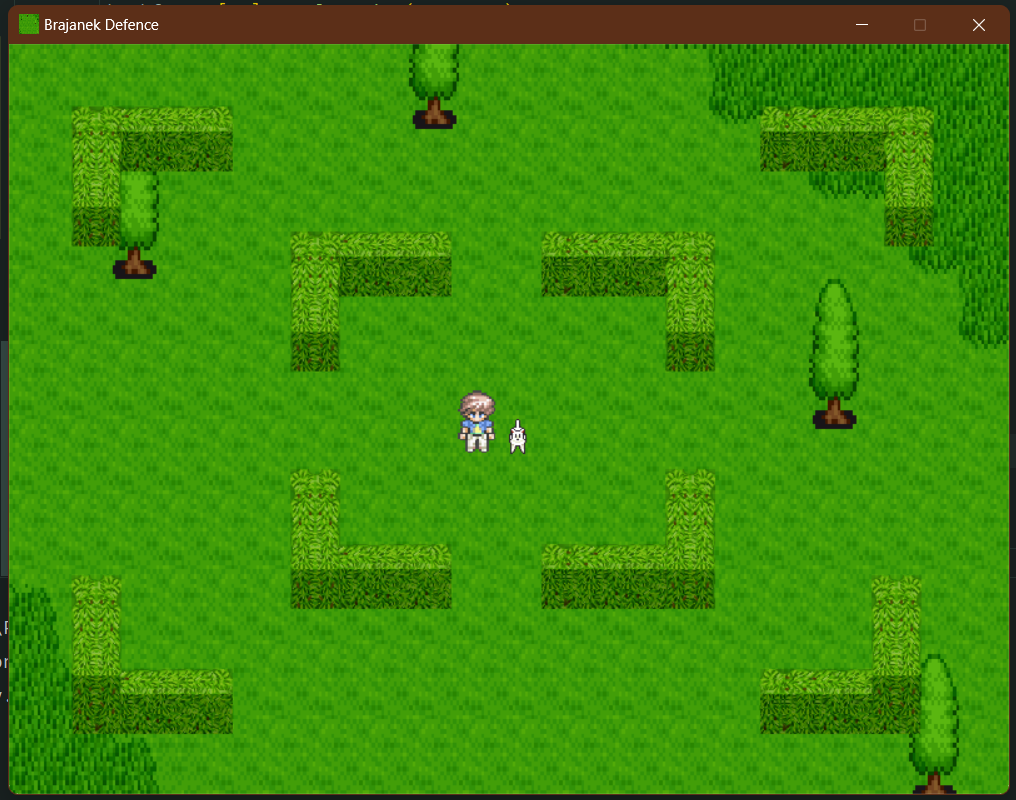
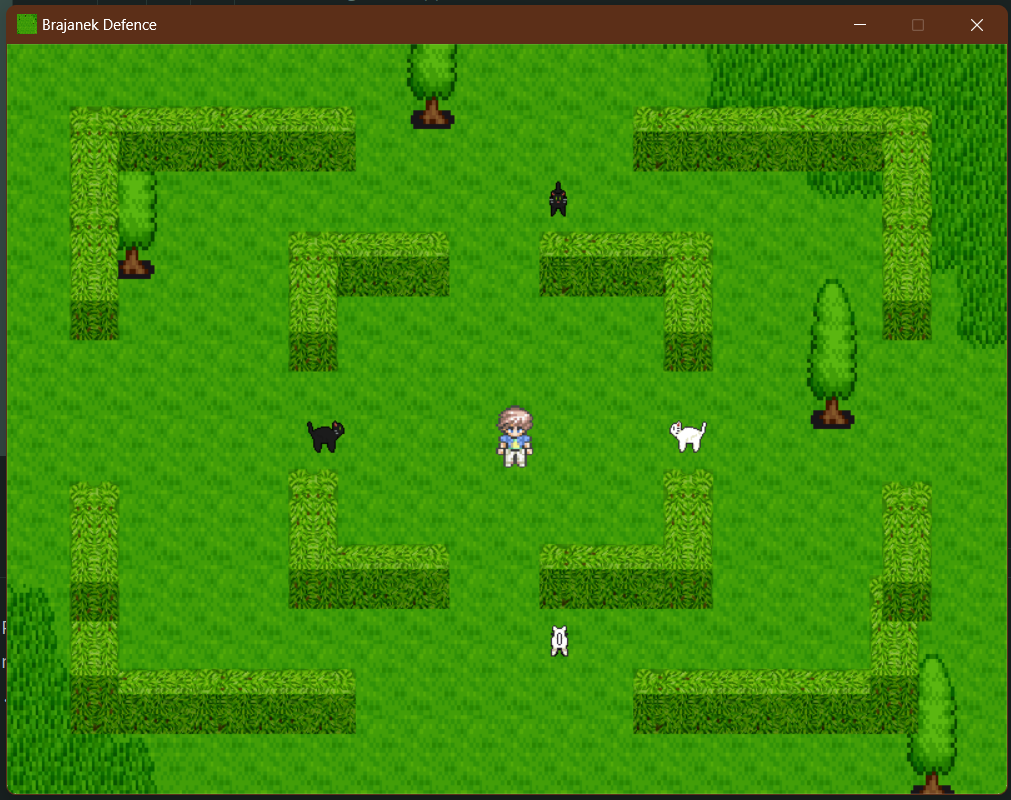
feat: add enemy movement, death, the game is now playable

diff --git a/mySprites/__init__.py b/mySprites/__init__.py
@@ -5,6 +5,7 @@ import random
 
 class BrajanekSprite(sprite.Sprite):
     """The main character of the game inherits from the Sprite class"""
+
     def __init__(self):
         super().__init__()
         self.image = wyglad.stanie_S
@@ -81,6 +82,7 @@ class Bushfence(sprite.Sprite):
     """The obstacle of the game inherits from the Sprite class.
     The obstacle can be horizontal or vertical
     """
+
     def __init__(self, isHorizontal):
         """Initializes the obstacle
         :param isHorizontal: True if the obstacle is horizontal, False if the obstacle is vertical
@@ -127,27 +129,34 @@ class Bushfence(sprite.Sprite):
         self.rect.x = x
         self.rect.y = y
 
+
 class Cat(sprite.Sprite):
 
     def __init__(self):
         super().__init__()
-        color = random.choice(["white", "black"])
-        if color == "white":
+        self.color = random.choice(["white", "black"])
+        if self.color == "white":
             self.image = wyglad.wyglady_white_cat["down_stand"]
         else:
             self.image = wyglad.wyglady_black_cat["down_stand"]
         self.rect = self.image.get_rect()
         self.rect.center = (400, 300)
-        self.speed = [2, 2]
-        self.catX = self.rect.centerx
-        self.catY = self.rect.centery
+        self.speed = [0.5, 0.5]
+
+        self.spawn = random.choice([(0,300),(800,300),(400,0),(400,600)])
+        self.catX = self.spawn[0]
+        self.catY = self.spawn[1]
 
     def change_image(self, name):
         """Changes the image of the sprite to the one specified by the name
         :param name: name of the image to be changed to
         :return: None"""
-        self.image = wyglad.wyglady[name]
-        self.image = transform.scale(self.image, (30, 50))
+        if self.color == "white":
+            self.image = wyglad.wyglady_white_cat[name]
+        else:
+            self.image = wyglad.wyglady_black_cat[name]
+
+        # self.image = transform.scale(self.image, (30, 50))
         self.rect = self.image.get_rect()
         self.rect.center = (self.rect.centerx, self.rect.centery)
 
@@ -187,10 +196,27 @@ class Cat(sprite.Sprite):
         :return: None"""
         self.rect.center = (self.catX, self.catY)
 
+    def move(self, brajanek):
+        """Moves the sprite in the direction of the sprite
+        :param brajanek: sprite to move towards
+        :return: None"""
 
+        if self.catX < brajanek.brajanekX:
+            self.change_image("right_stand")
+            self.catX += self.speed[0]
+        elif self.catX > brajanek.brajanekX:
+            self.change_image("left_stand")
+            self.catX -= self.speed[0]
+        if self.catY < brajanek.brajanekY:
+            self.change_image("down_stand")
+            self.catY += self.speed[1]
+        elif self.catY > brajanek.brajanekY:
+            self.change_image("up_stand")
+            self.catY -= self.speed[1]
 
-
-
-
-
+    def change_direction(self):
+        """Changes the direction of the sprite
+        :return: None"""
+        self.speed[0] = -self.speed[0]
+        self.speed[1] = -self.speed[1]
 

diff --git a/main.py b/main.py
@@ -1,5 +1,5 @@
 import pygame
-from pygame import constants, sprite, image, transform
+from pygame import constants, sprite, image, transform, time
 from pygame.constants import K_UP, K_RIGHT, K_LEFT, K_a, K_d, K_w, K_s, K_DOWN, K_ESCAPE
 import mySprites
 
@@ -18,6 +18,7 @@ pygame.init()
 # screen - do not touch
 size = WINDOWWIDTH, WINDOWHEIGHT = 800, 600
 speed = [5, 5]
+cat_speed = [2, 2]
 black = 0, 0, 0
 screen = pygame.display.set_mode(size)
 pygame.display.set_caption("Brajanek Defence")
@@ -66,10 +67,25 @@ bushfences[13].set_location(700, 50)
 bushfences[14].set_location(50, 425)
 bushfences[15].set_location(690, 425)
 
+for i in range(0, 4):
+    bushfences.append(mySprites.Bushfence(True))
+bushfences[16].set_location(150, 50)
+bushfences[17].set_location(500, 50)
+bushfences[18].set_location(150, 500)
+bushfences[19].set_location(500, 500)
+
+for i in range(0, 4):
+    bushfences.append(mySprites.Bushfence(False))
+
+bushfences[20].set_location(50, 125)
+bushfences[21].set_location(700, 125)
+bushfences[22].set_location(50, 350)
+bushfences[23].set_location(700, 350)
+
 # CATS
 cats = []
-cats.append(mySprites.Cat())
-cats[0].set_location(screen.get_width() / 2, screen.get_height() / 2)
+for i in range(0, 100):
+    cats.append(mySprites.Cat())
 
 is_running = False  # Flag to track movement state
 current_direction = None  # Track the current movement direction
@@ -77,7 +93,9 @@ current_direction = None  # Track the current movement direction
 # main loop
 while running:
     pygame.display.flip()
+
     for event in pygame.event.get():
+
         # quit
         if event.type == pygame.QUIT:
             running = False
@@ -136,6 +154,36 @@ while running:
             brajanek.brajanekY += brajanek.speed[1]
 
     brajanek.rect.center = (brajanek.brajanekX, brajanek.brajanekY)
+
+    # cats
+    # add a new cat every 5 seconds
+    if pygame.time.get_ticks() % 5000 < 10:
+        cats.append(mySprites.Cat())
+
+    for cat in cats:
+        collision = False
+        for bushfence in bushfences:
+            if cat.check_collision(bushfence):
+                collision = True
+                break
+        if collision:
+            cat.change_direction()
+            cat.move(brajanek)
+        else:
+            cat.move(brajanek)
+        cat.rect.center = (cat.catX, cat.catY)
+
+    if pygame.sprite.spritecollide(brajanek, cats, False):
+        """DEATH OF BRAJANEK"""
+        # BRAJANEK HAS FALLEN
+        print("BRAJANEK HAS FALLEN")
+        brajanek.change_image("porazka")
+        brajanek.rect.center = (brajanek.brajanekX, brajanek.brajanekY)
+        pygame.display.flip()
+        screen.blit(brajanek.image, brajanek.rect)
+        pygame.display.flip()
+        pygame.time.wait(1000)
+        running = False
 
     # drawing - do not touch
     screen.fill(black)
